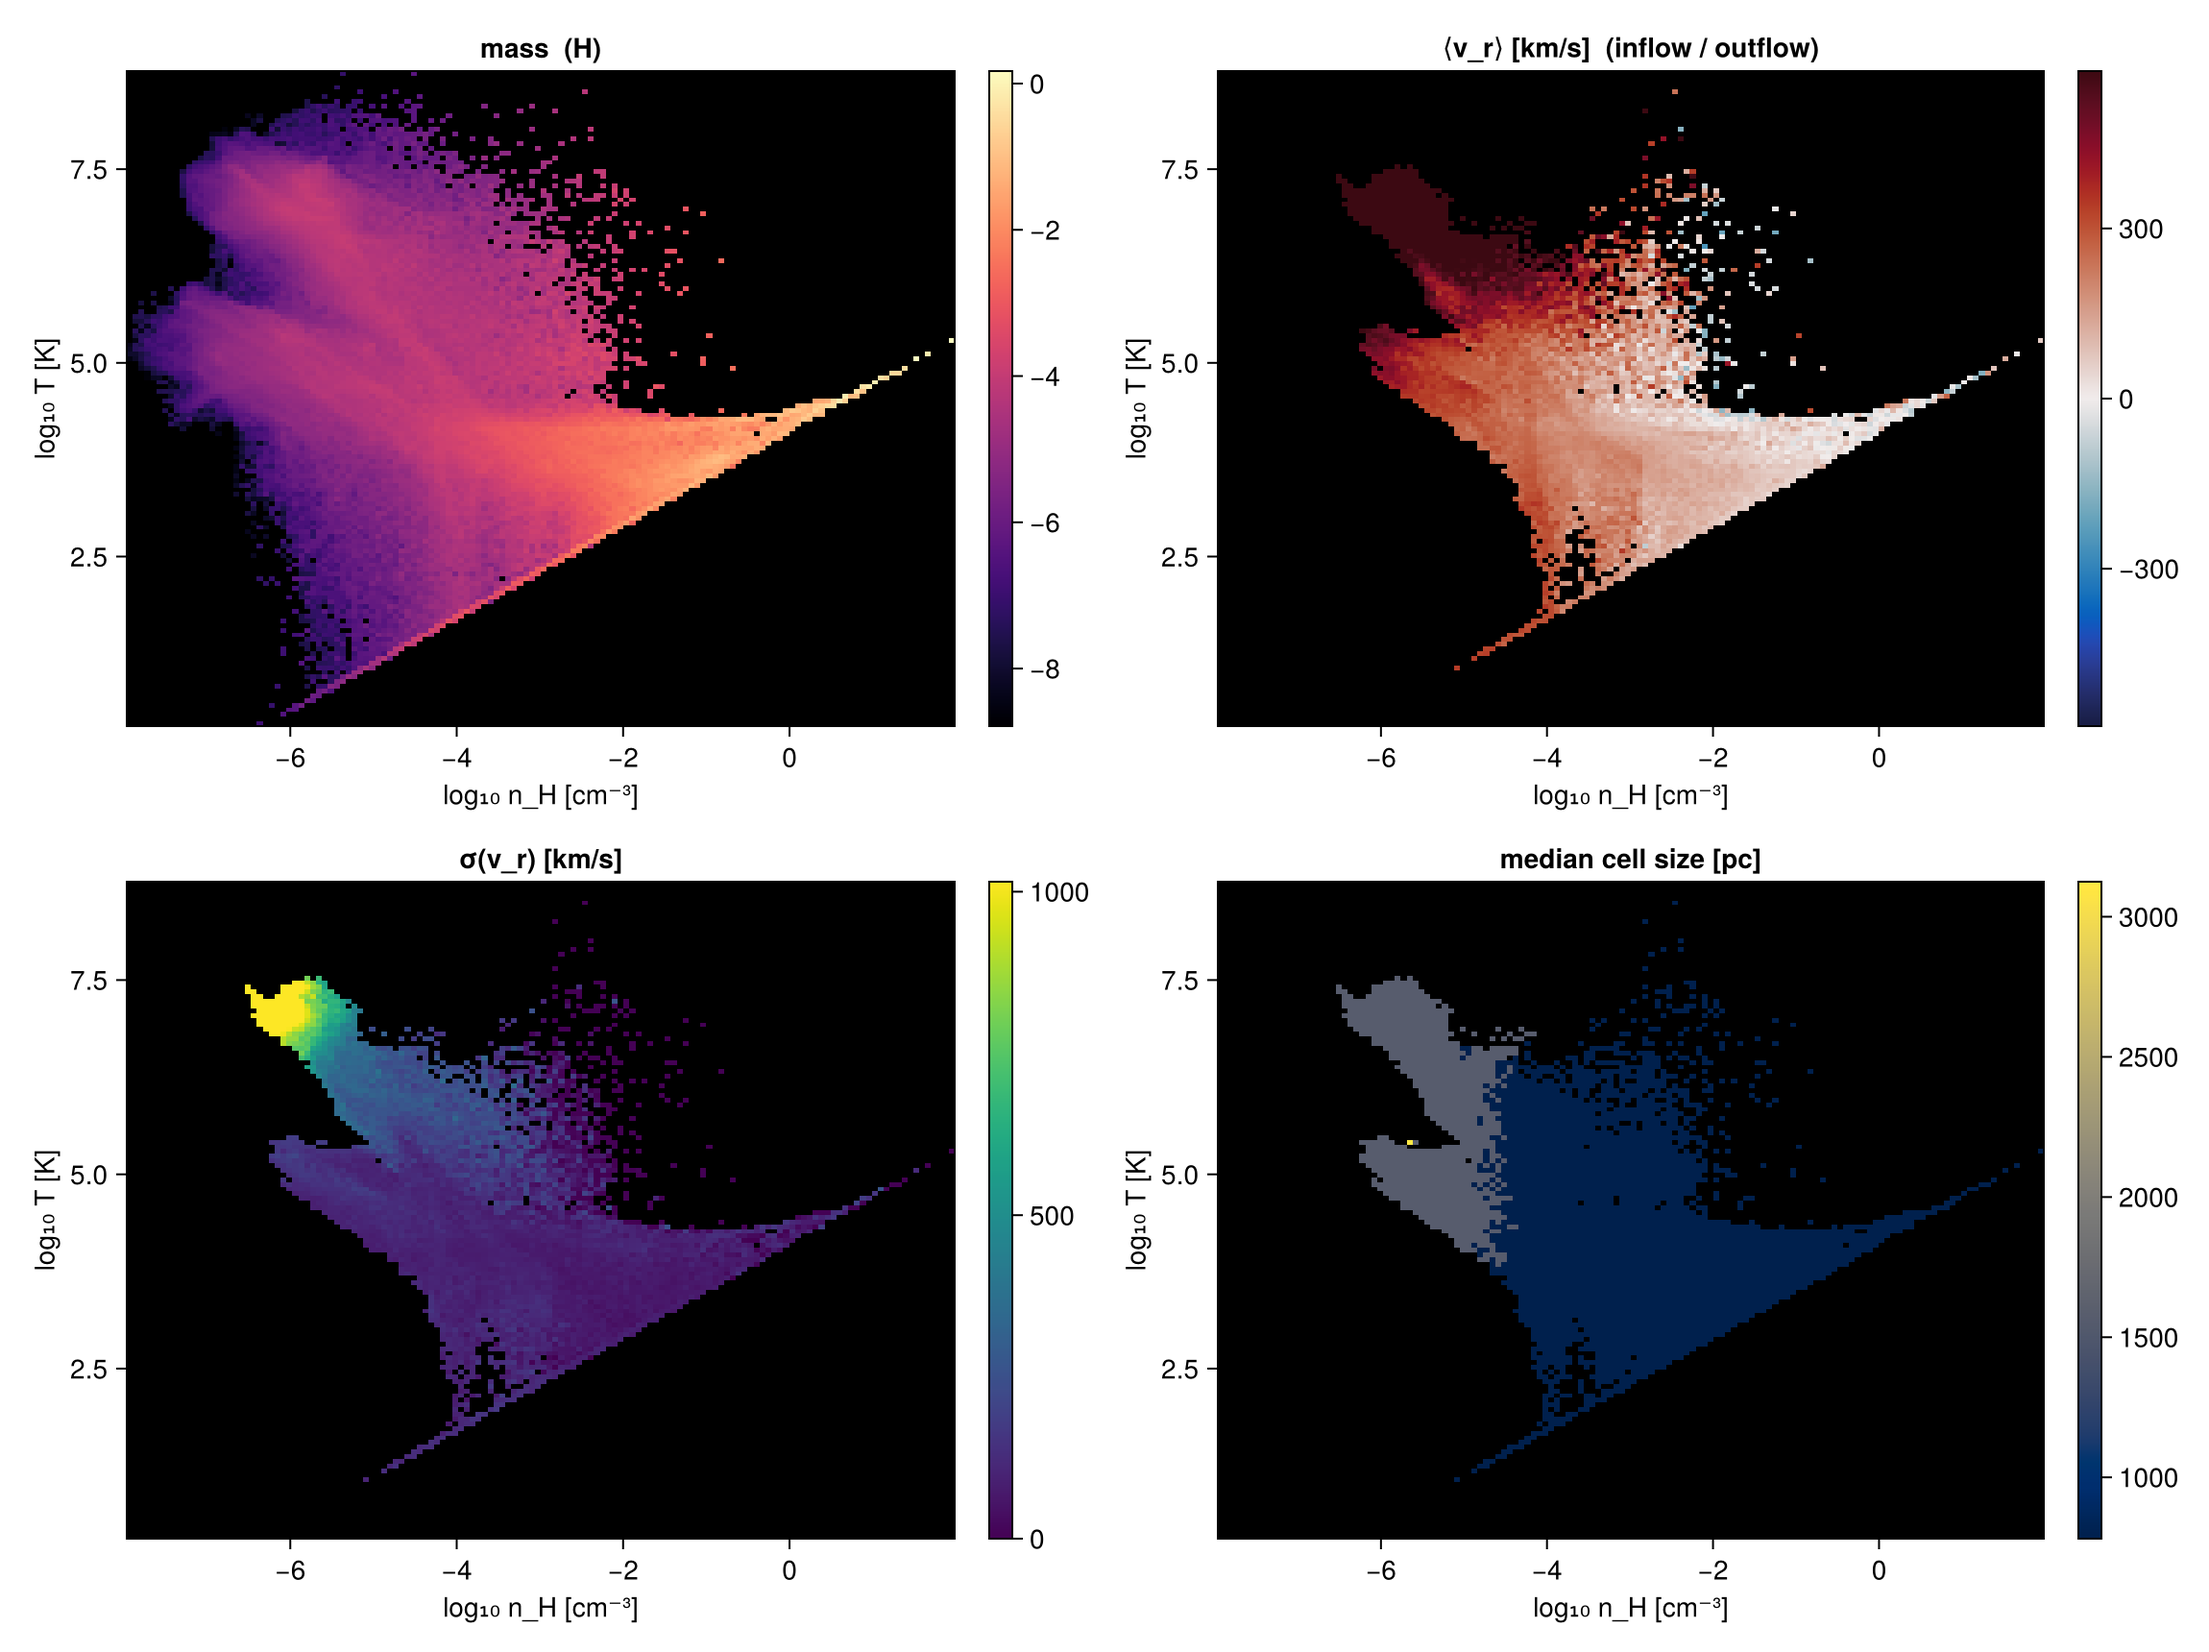
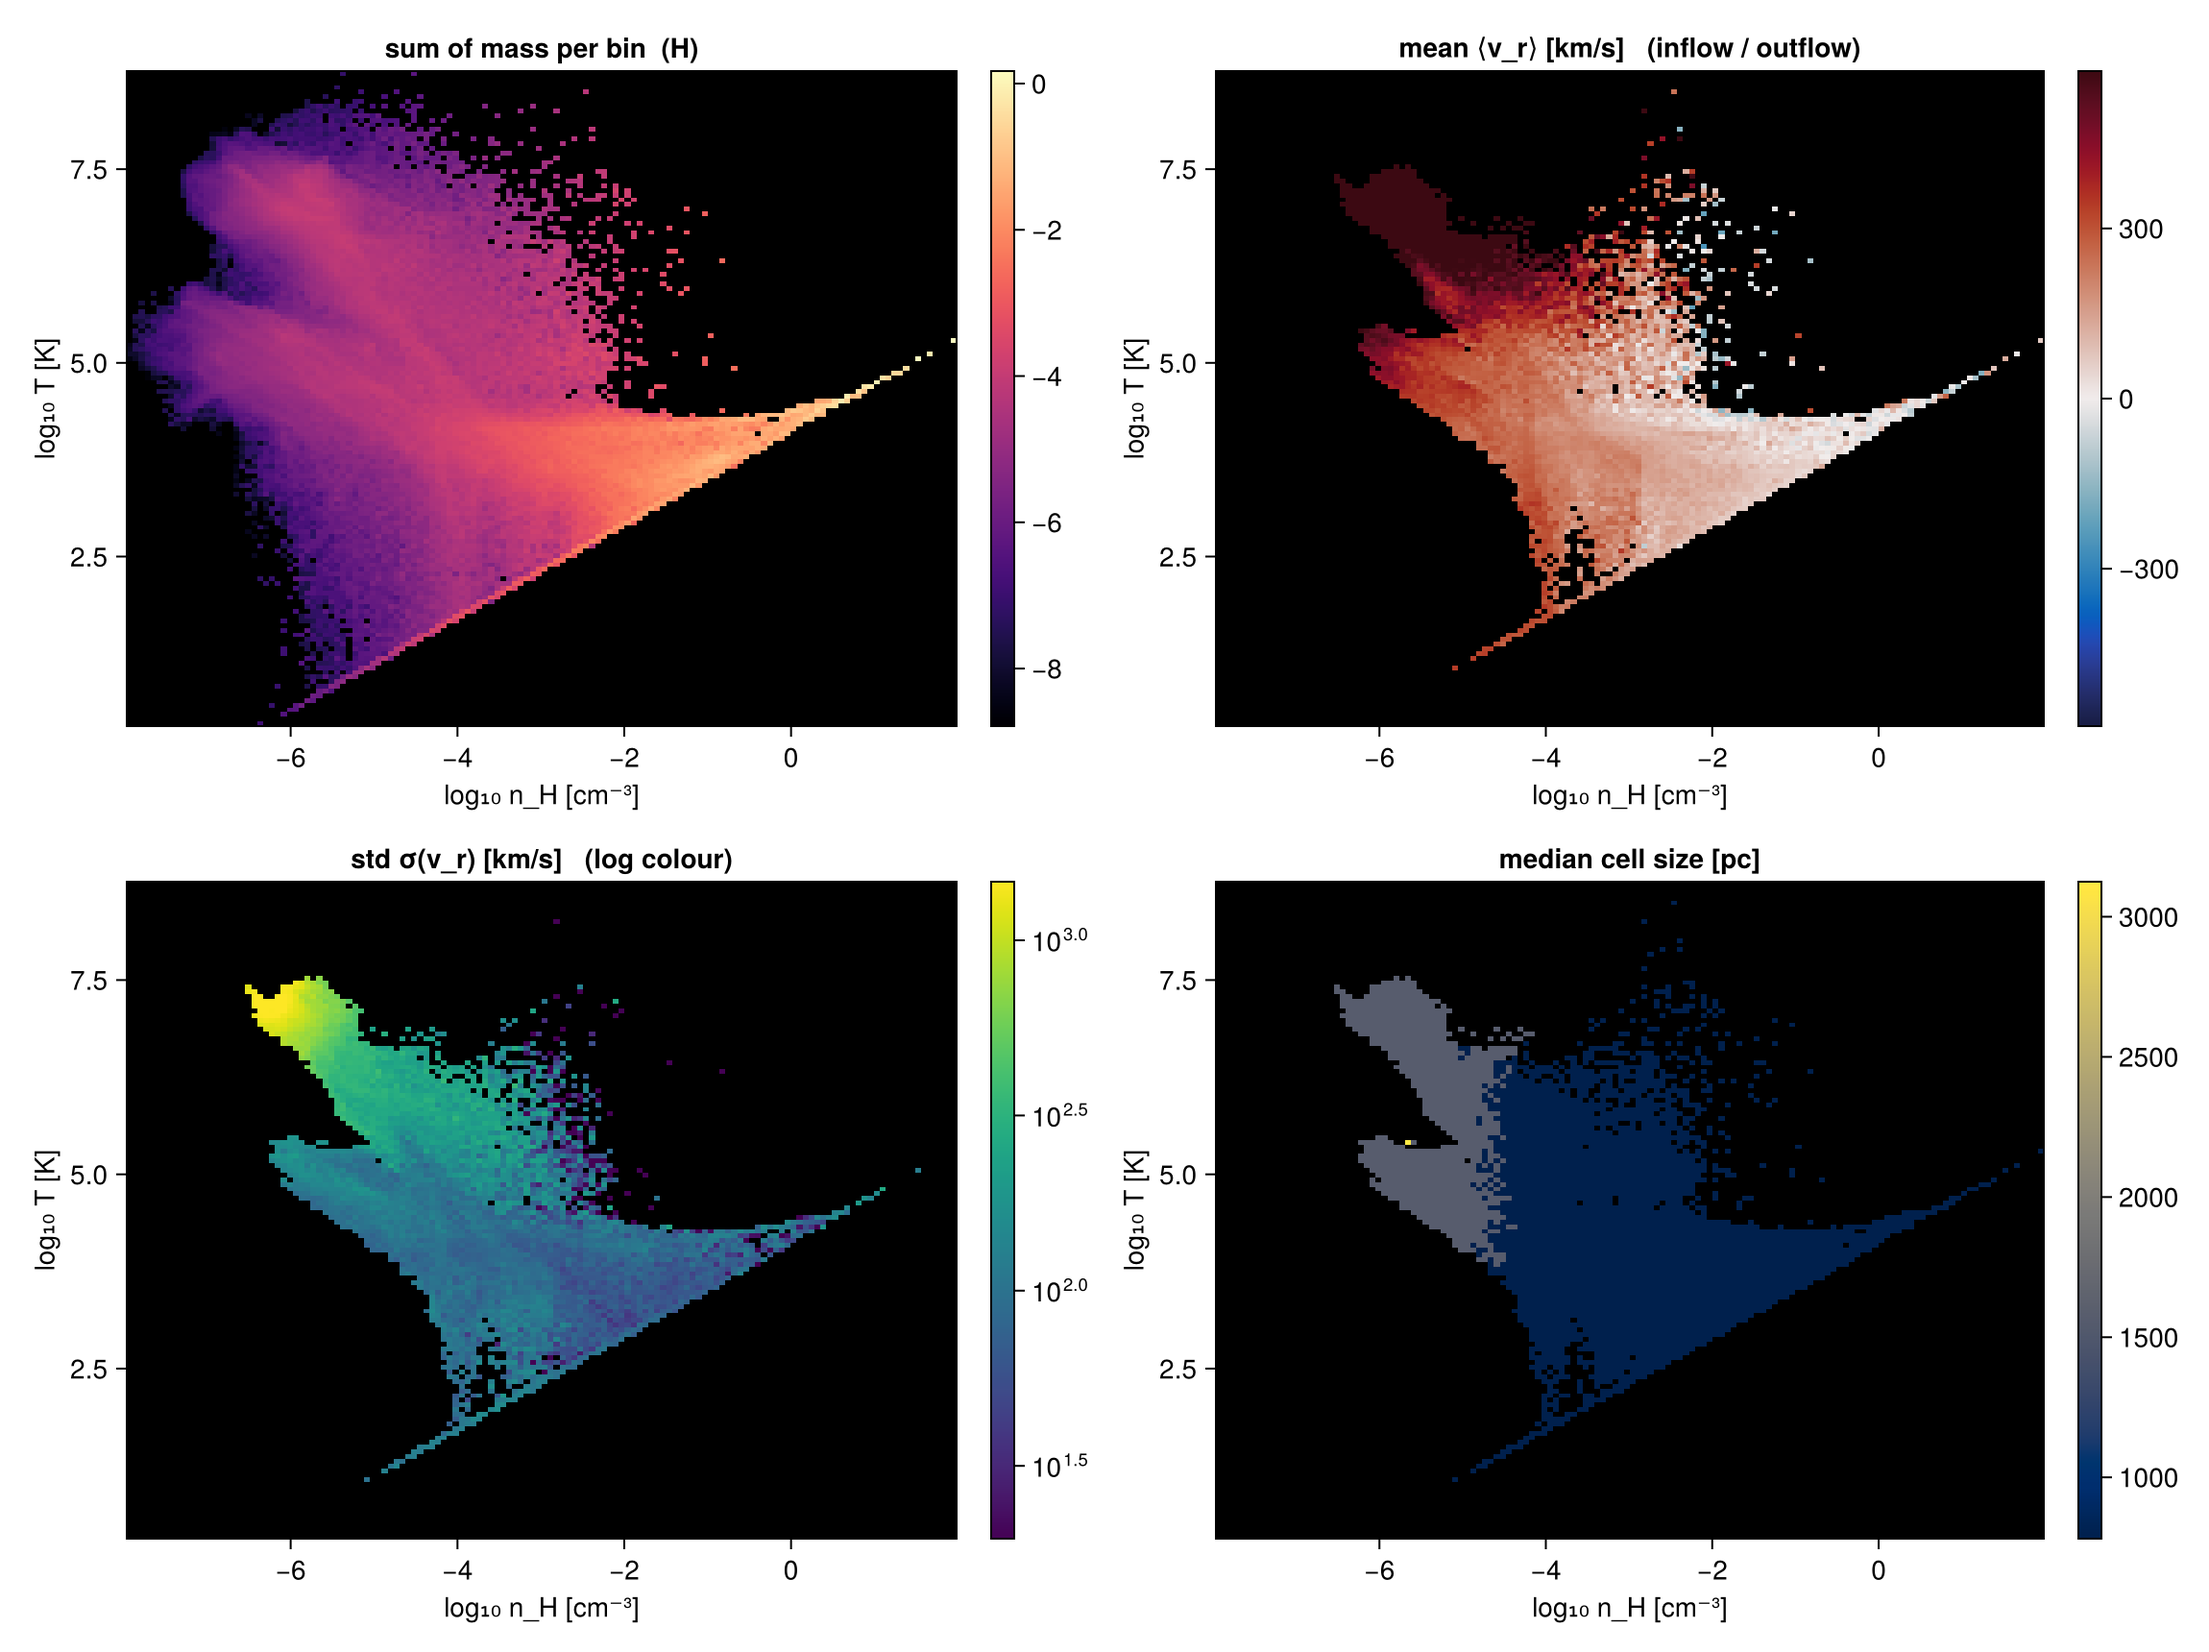
docs(profiles): name the statistic in every phase panel, log the spread
A colour means nothing until the reader knows whether it is a sum, a
mean, a median or a spread, and three of the four panels never said.
Each title now names it, with a table listing the four and what each
one answers.

The spread also gets a log colour scale. Measured across the plane it
spans 1.7 dex, 19 to 1050 km/s, so on a linear scale the whole disc was
one flat colour and only the hot phase showed. The cell size stays
linear on purpose: it spans 0.3 dex and takes three values, being the
AMR level rather than a continuous field, so a log scale would say
nothing a linear one does not.

diff --git a/docs/src/15_multi_Profiles_Phase.md b/docs/src/15_multi_Profiles_Phase.md
@@ -232,15 +232,22 @@ With a third field `cvar` each cell is coloured by the per-cell weighted **mean*
 that for `:std`/`:median`/`:min`/`:max`/`:full` or a function. `normalize=:pdf` makes a 2-D PDF,
 and `xedges`/`yedges` accept custom edges.
 
-Same ρ–T plane, four questions. The mass histogram is the shape of the gas; the radial velocity
-about the box centre separates **inflow from outflow**, and picks out the hot wind; its scatter
-per bin is a **velocity dispersion**; and the median **cell size** shows where the refinement
-actually went, which is a property of the run rather than of the gas.
+Same ρ–T plane, four questions. **Every title says which statistic is drawn**, because a colour
+means nothing until you know whether it is a sum, a mean, a median or a spread:
 
-Two things worth copying. Bins holding almost no mass carry wild means, and one of them will set
-the colour range for the whole panel, so they are masked first. And `v_r` here is one-sided, a
-wind rather than a symmetric field, so the diverging limits come from a percentile of `|v_r|`
-rather than its extremes.
+| panel | statistic | what it answers |
+|:--|:--|:--|
+| mass | **sum** of the weight per bin | where the gas is |
+| ⟨v_r⟩ | **mean** radial velocity about the box centre | inflow against outflow, and the hot wind |
+| σ(v_r) | **standard deviation** per bin | how ordered that motion is |
+| cell size | **median** | where the refinement went, a property of the run, not the gas |
+
+Three habits worth copying. Bins holding almost no mass carry wild means, and one of them will set
+the colour range for a whole panel, so they are masked first. `v_r` here is one-sided, a wind
+rather than a symmetric field, so the diverging limits come from a percentile of `|v_r|` rather
+than its extremes. And **σ spans 1.7 dex**, so it gets a log colour scale, without which the disc
+is a single flat colour; the cell size spans 0.3 dex and takes only three values, being the AMR
+level, so a log scale there would add nothing.
 
 ```julia
 kw = (weight=:mass, nbins=(140,140), xscale=:log, yscale=:log, xunit=:nH, yunit=:K,
@@ -260,21 +267,24 @@ function mask(M)
 end
 qq(M, p) = (v = filter(isfinite, vec(M)); isempty(v) ? 0.0 : quantile(v, p))
 vlim = qq(abs.(mask(pvr.mean)), 0.90)      # v_r is one-sided here: a wind, not a symmetric field
+sig  = mask(psd.std); sig[sig .<= 0] .= NaN   # a log colour scale needs positives
 
 # ── figure code from here: panels, overlays, colorbars, no new Mera concepts ──
 xc = log10.((ph.xedges[1:end-1].+ph.xedges[2:end])./2)
 yc = log10.((ph.yedges[1:end-1].+ph.yedges[2:end])./2)
 lg(M) = log10.(replace(M, 0.0=>NaN))
 fig = Figure(size=(1150,860))
-panels = (("mass  (H)",                          lg(ph.H),          :magma,   nothing),
-          ("⟨v_r⟩ [km/s]  (inflow / outflow)",   mask(pvr.mean),    :balance, (-vlim, vlim)),
-          ("σ(v_r) [km/s]",                      mask(psd.std),     :viridis, (0.0, qq(mask(psd.std), 0.98))),
-          ("median cell size [pc]",              mask(pcs.median),  :cividis, nothing))
-for (k,(lab,M,cm,rng)) in enumerate(panels)
+#          title (naming the statistic)          data              colourmap  range                          log?
+panels = (("sum of mass per bin  (H)",           lg(ph.H),         :magma,   nothing,                        identity),
+          ("mean ⟨v_r⟩ [km/s]   (inflow / outflow)", mask(pvr.mean), :balance, (-vlim, vlim),                identity),
+          ("std σ(v_r) [km/s]   (log colour)",   sig,              :viridis, (qq(sig,0.02), qq(sig,0.995)),  log10),
+          ("median cell size [pc]",              mask(pcs.median), :cividis, nothing,                        identity))
+for (k,(lab,M,cm,rng,csc)) in enumerate(panels)
     r=(k-1)÷2+1; c=2*((k-1)%2)+1
-    ax = Axis(fig[r,c], xlabel="log₁₀ n_H [cm⁻³]", ylabel="log₁₀ T [K]", title=lab)
-    hm = rng === nothing ? heatmap!(ax, xc, yc, M; colormap=cm) :
-                           heatmap!(ax, xc, yc, M; colormap=cm, colorrange=rng)
+    ax  = Axis(fig[r,c], xlabel="log₁₀ n_H [cm⁻³]", ylabel="log₁₀ T [K]", title=lab)
+    kwc = rng === nothing ? (; colormap=cm) : (; colormap=cm, colorrange=rng)
+    hm  = csc === log10 ? heatmap!(ax, xc, yc, M; colorscale=log10, kwc...) :
+                          heatmap!(ax, xc, yc, M; kwc...)
     ax.backgroundcolor = :black
     Colorbar(fig[r,c+1], hm)
 end
